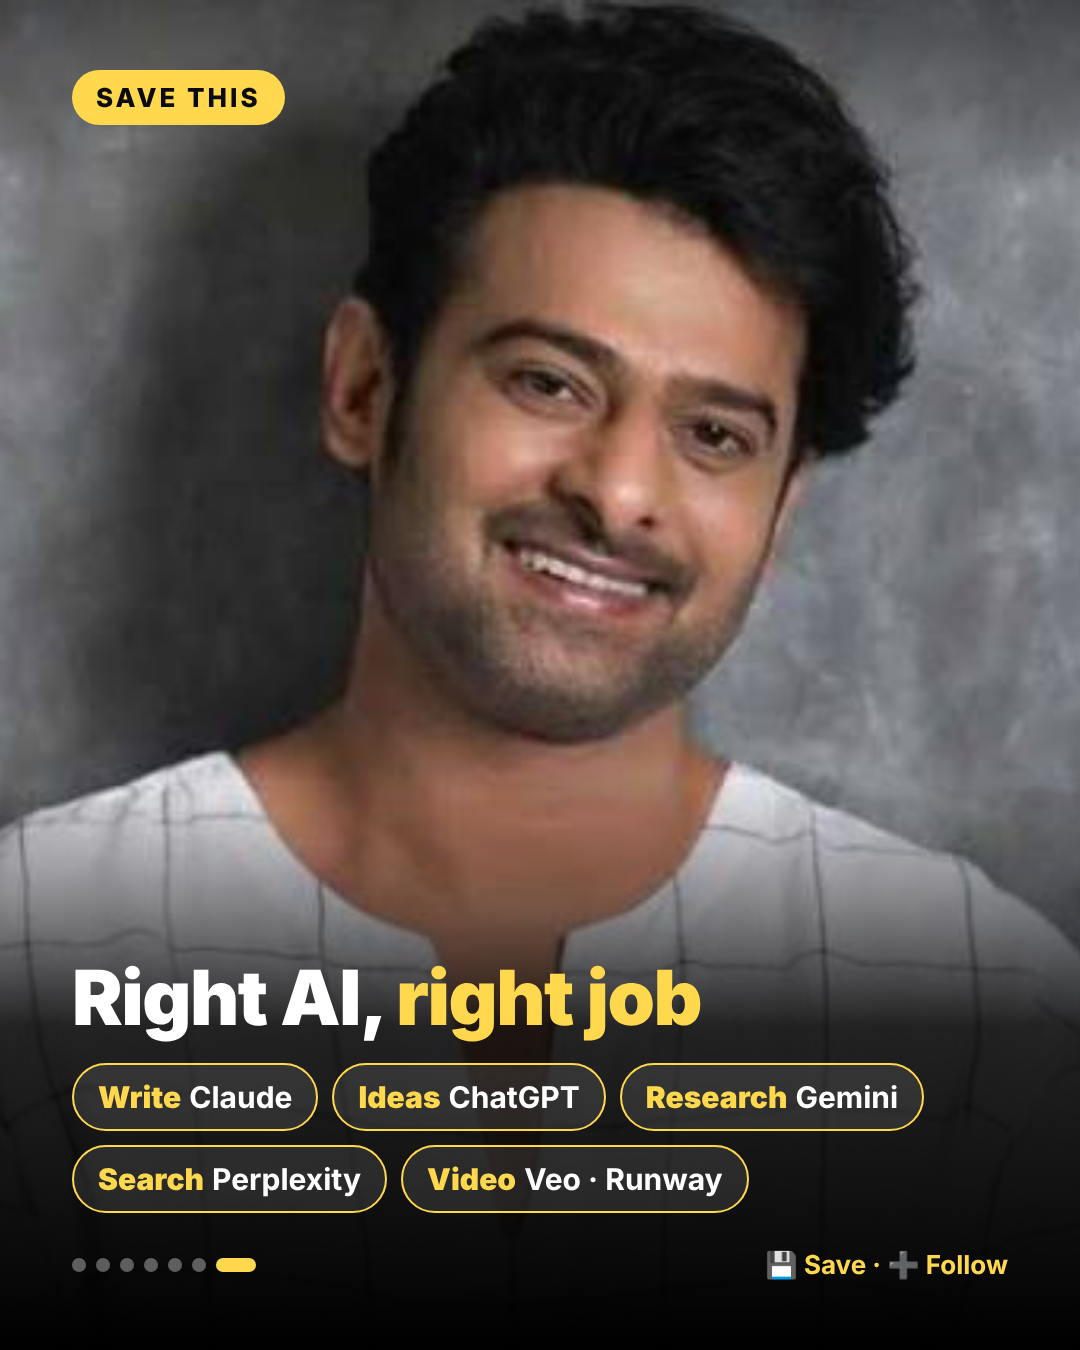
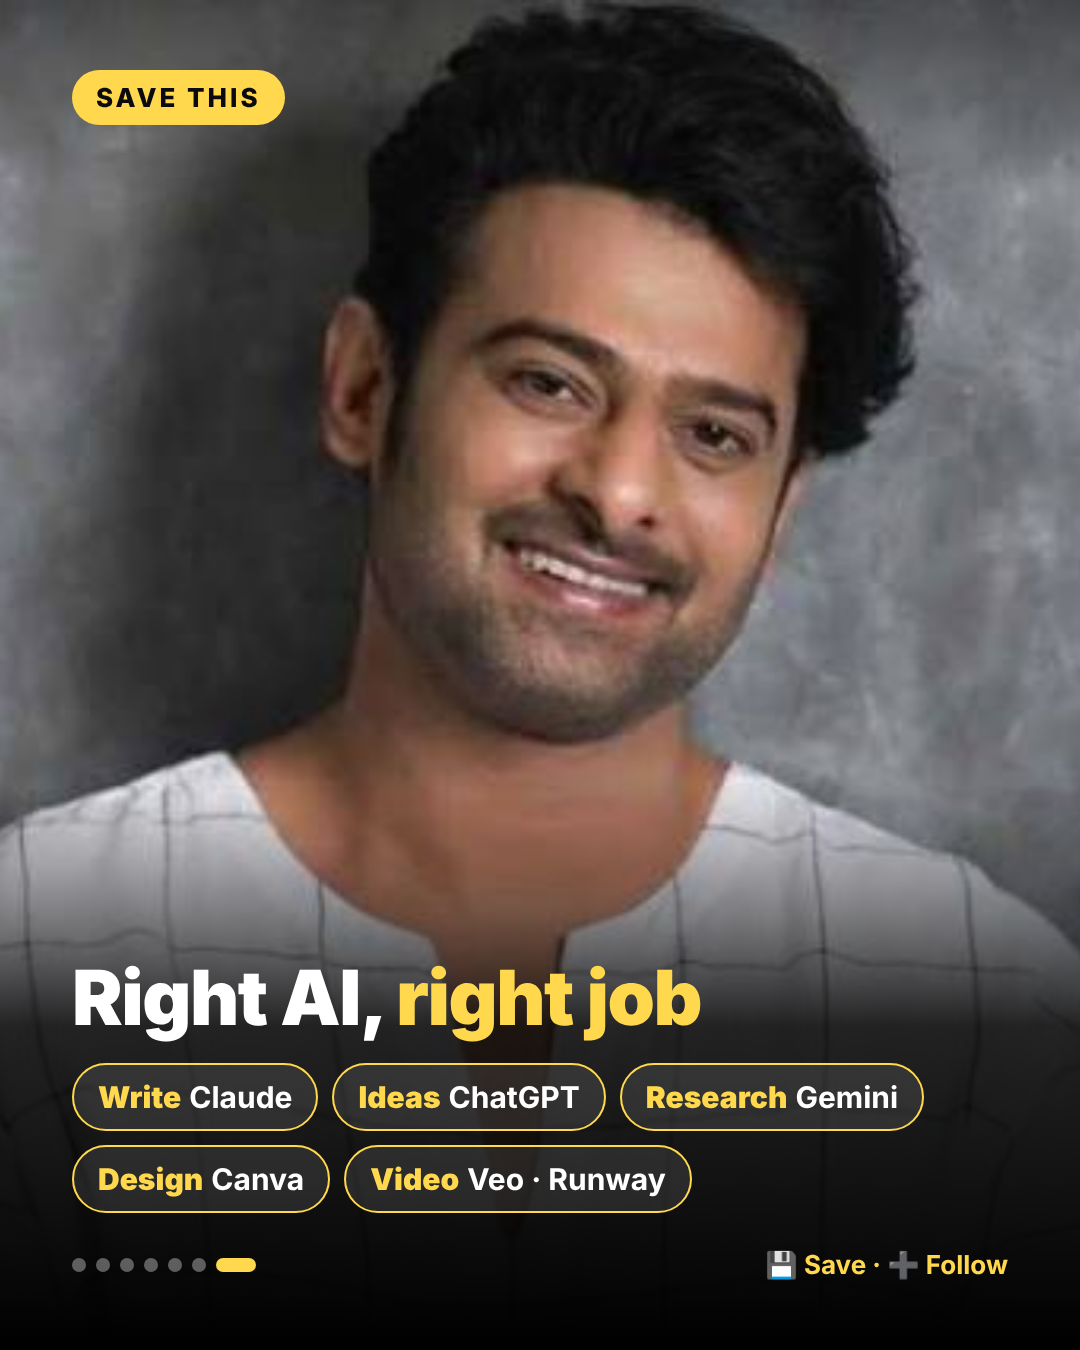
Carousel: replace Perplexity slide with Canva AI images
Claude-Session: https://claude.ai/code/session_01WMA397VEfozkovtyzdFbRr

Changed region(s): [[0.0917, 0.84, 0.6722, 0.9022]]

diff --git a/carousel/index.html b/carousel/index.html
@@ -104,13 +104,13 @@
     </div>
   </section>
 
-  <!-- 6 · PERPLEXITY (Airtel) -->
-  <section class="slide" style="background-image:url(images/7.jpg); background-position:center top; --accent:#2ad4c9;">
+  <!-- 6 · CANVA -->
+  <section class="slide" style="background-image:url(images/7.jpg); background-position:center top; --accent:#b18cff;">
     <div class="inner">
-      <span class="tag">Tool · Perplexity × Airtel</span>
+      <span class="tag">Tool · Canva AI</span>
       <div class="bottom">
-        <h2><span class="accent">Perplexity</span> = answers</h2>
-        <div class="chips"><span>🔗 With sources</span><span>📰 Latest news</span><span>📶 Pro via Airtel</span></div>
+        <h2><span class="accent">Canva</span> = AI images</h2>
+        <div class="chips"><span>🎨 Text → Image</span><span>🖼 Posters & Posts</span><span>✨ Magic Edit</span></div>
       </div>
       <div class="footer"><div class="dots"><i></i><i></i><i></i><i></i><i></i><i class="on"></i><i></i></div><span class="swipe">Next →</span></div>
     </div>
@@ -124,7 +124,7 @@
         <h2>Right AI, <span class="accent">right job</span></h2>
         <div class="chips">
           <span><b>Write</b>Claude</span><span><b>Ideas</b>ChatGPT</span>
-          <span><b>Research</b>Gemini</span><span><b>Search</b>Perplexity</span><span><b>Video</b>Veo · Runway</span>
+          <span><b>Research</b>Gemini</span><span><b>Design</b>Canva</span><span><b>Video</b>Veo · Runway</span>
         </div>
       </div>
       <div class="footer"><div class="dots"><i></i><i></i><i></i><i></i><i></i><i></i><i class="on"></i></div><span class="swipe">💾 Save · ➕ Follow</span></div>
